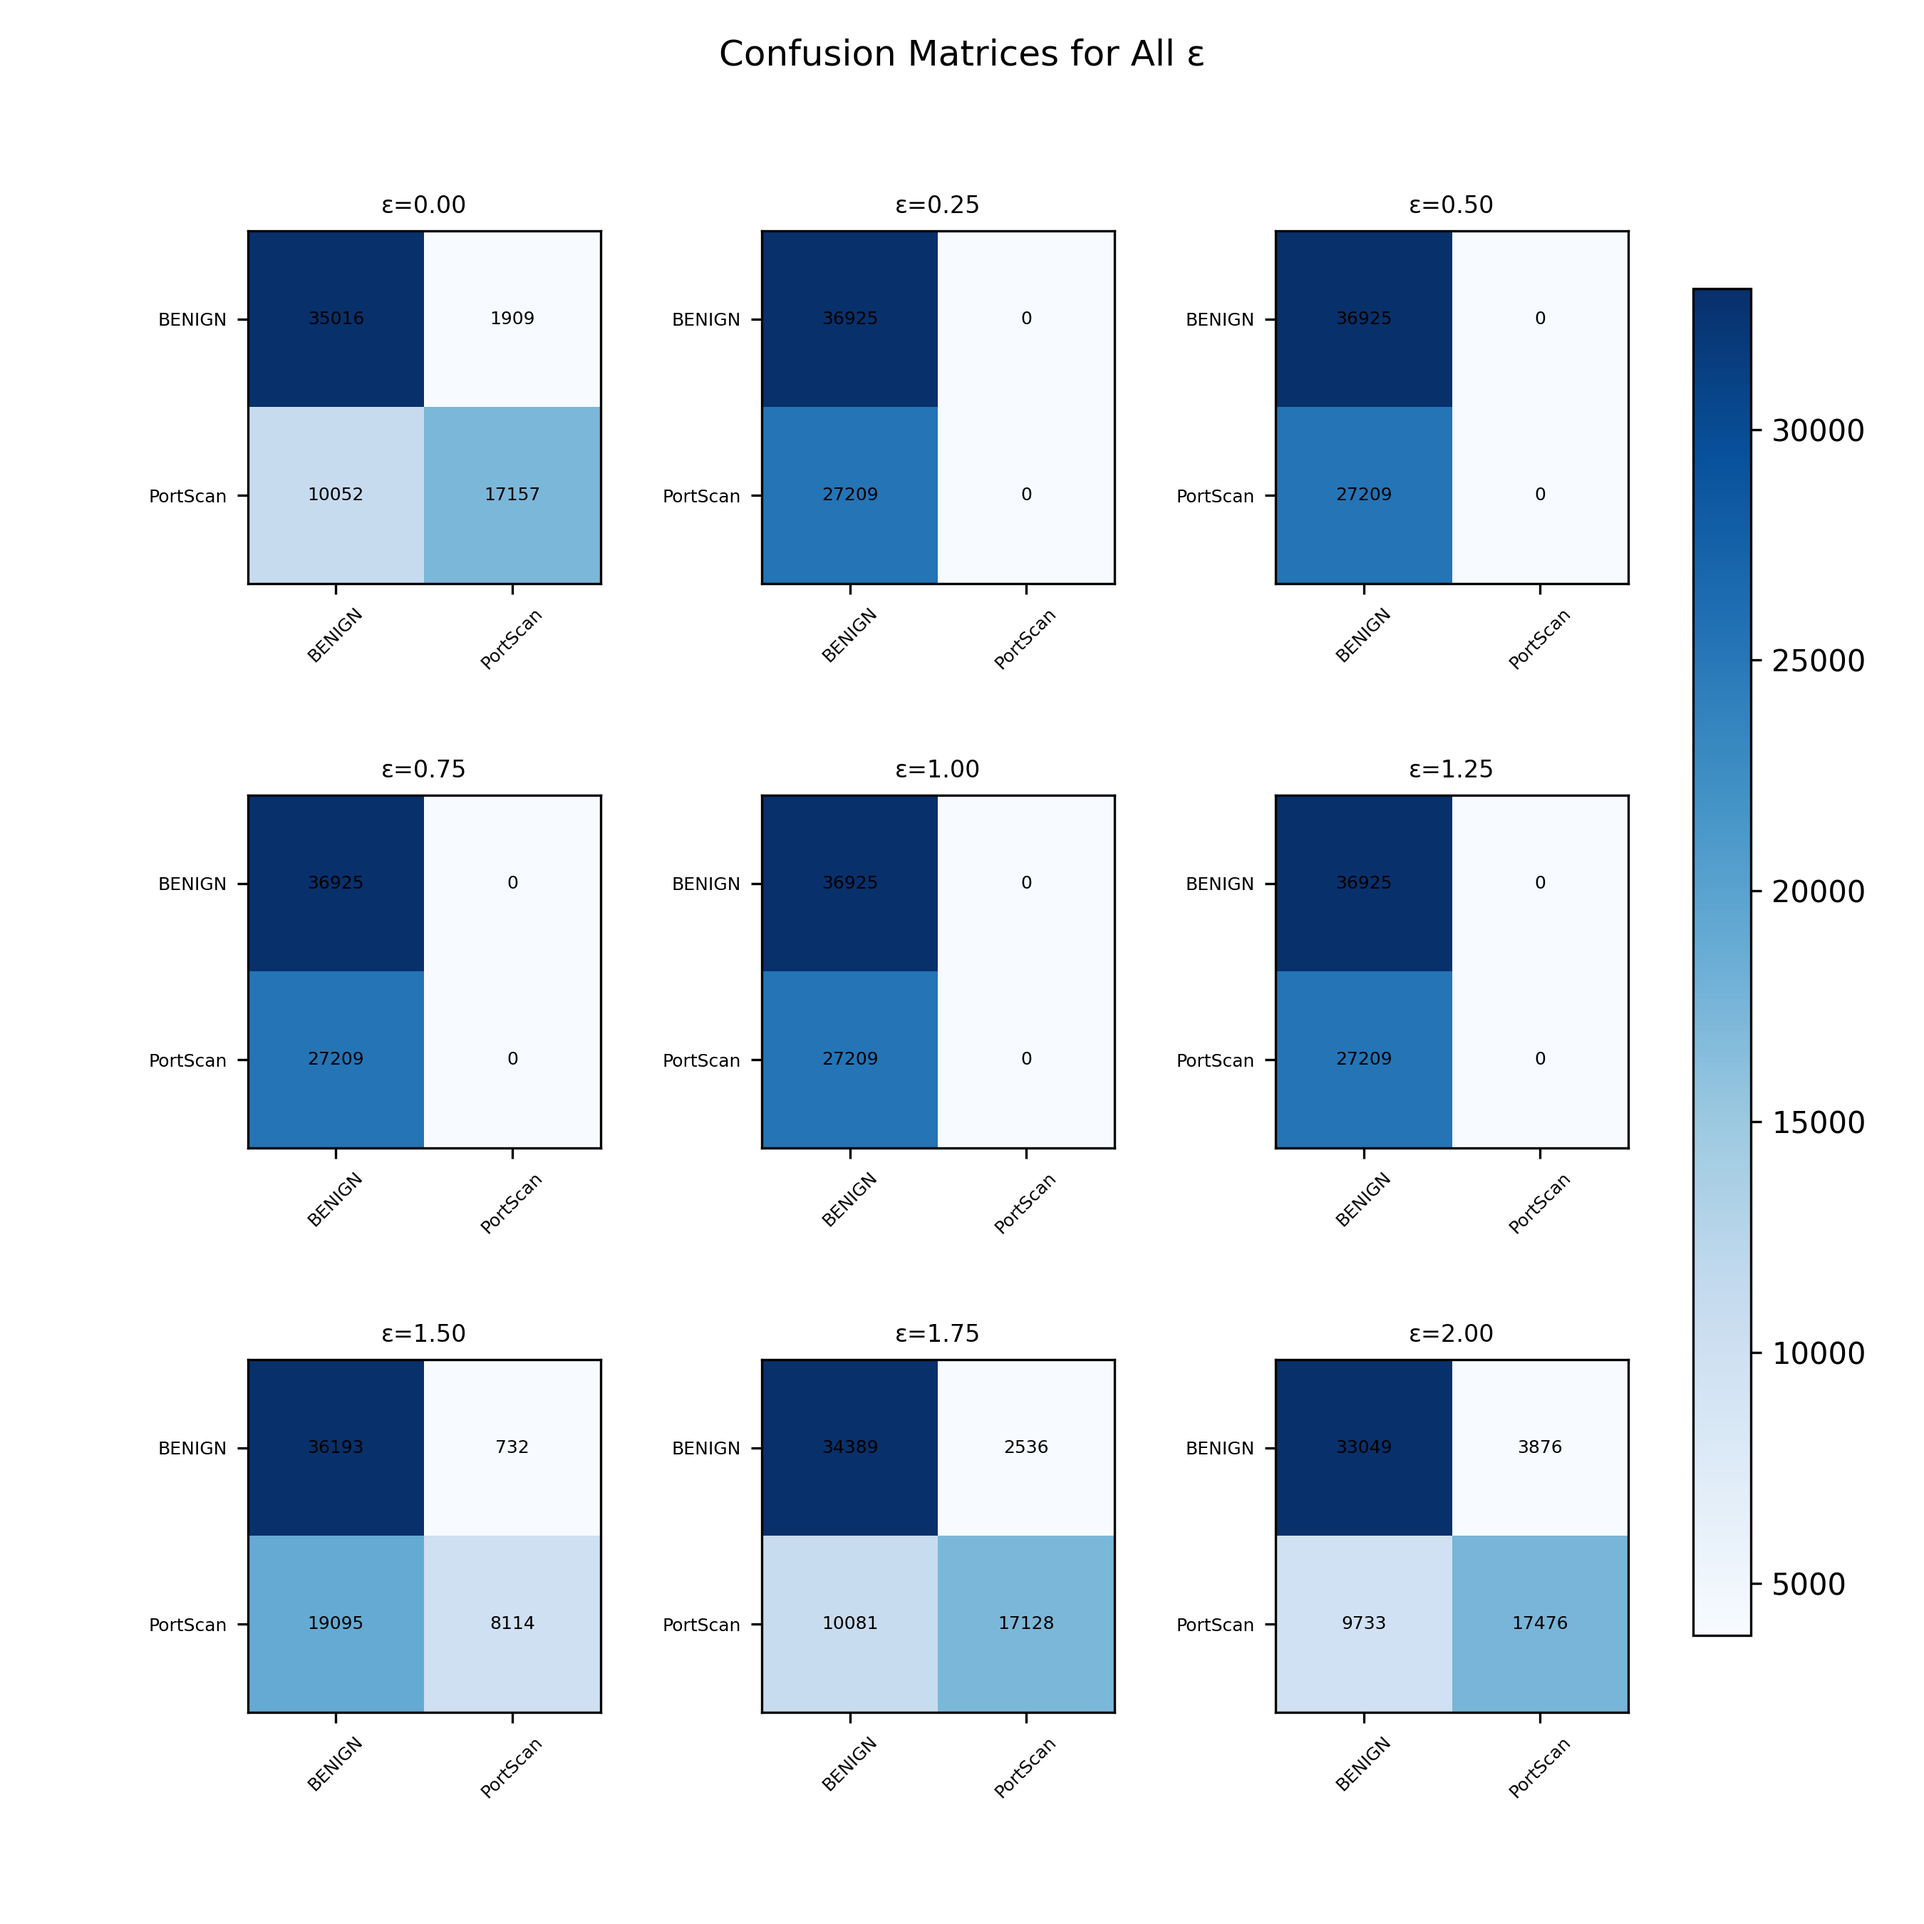
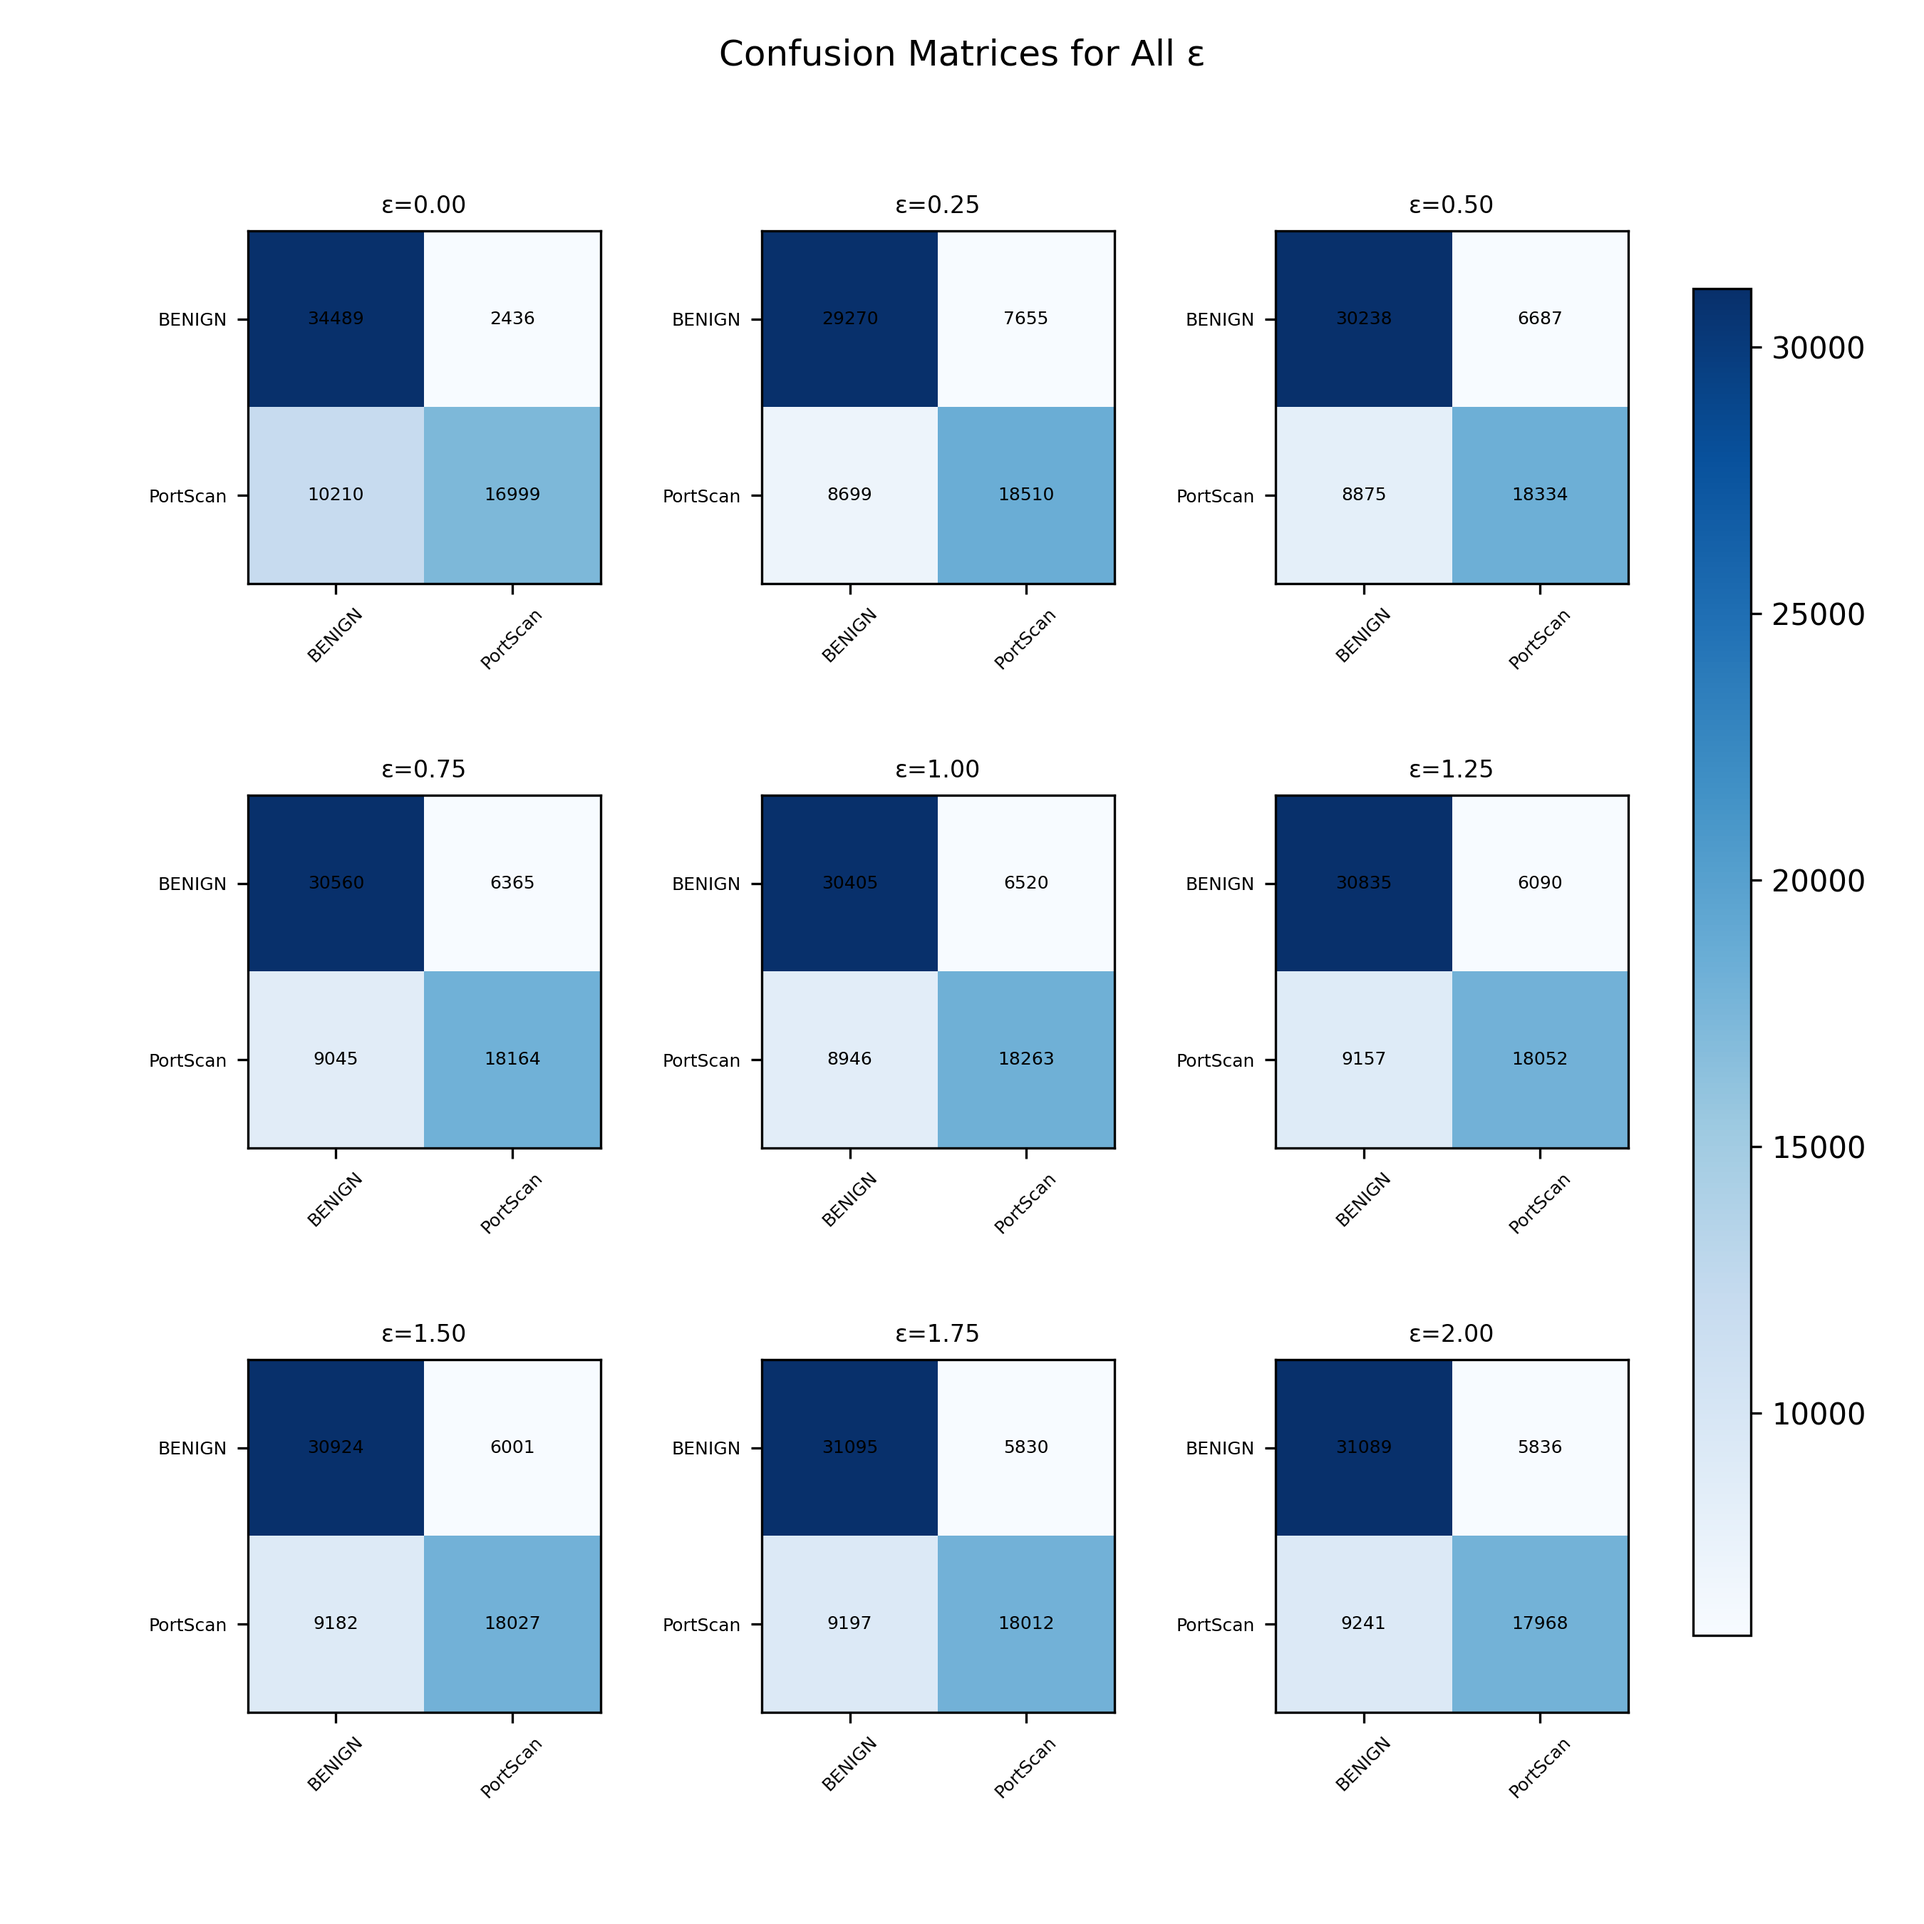
“4/30改进版”

diff --git a/src/optimized_pipeline.py b/src/optimized_pipeline.py
@@ -1,3 +1,4 @@
+# optimized_pipeline.py
 import argparse
 import logging
 from pathlib import Path
@@ -5,7 +6,10 @@ import yaml
 import pandas as pd
 import numpy as np
 import matplotlib.pyplot as plt
-from sklearn.metrics import accuracy_score, precision_score, recall_score, f1_score, confusion_matrix
+from sklearn.metrics import (
+    accuracy_score, precision_score, recall_score, f1_score,
+    confusion_matrix, roc_curve, precision_recall_curve, auc
+)
 from sklearn.model_selection import train_test_split
 from sklearn.utils import resample
 from cls import train_and_evaluate_model
@@ -76,10 +80,8 @@ def evaluate_metrics(y_true, y_pred, labels):
     rec_macro = recall_score(y_true, y_pred, average='macro', zero_division=0)
     f1_macro = f1_score(y_true, y_pred, average='macro', zero_division=0)
     cm = confusion_matrix(y_true, y_pred, labels=labels)
-    per_class_recalls = {
-        f'recall_{labels[i]}': cm[i, i] / cm[i].sum() if cm[i].sum() > 0 else 0
-        for i in range(len(labels))
-    }
+    per_class_recalls = {f'recall_{labels[i]}': cm[i, i] / cm[i].sum() if cm[i].sum() > 0 else 0
+                         for i in range(len(labels))}
     per_class_f1 = {}
     for i, lbl in enumerate(labels):
         tp = cm[i, i]
@@ -98,8 +100,7 @@ def plot_confusion_matrix_grid(cms, labels, title, save_path: Path):
     axes = axes.flatten()
     for ax, (eps, cm) in zip(axes, cms):
         im = ax.imshow(cm, interpolation='nearest', cmap=plt.cm.Blues)
-        tag = f'ε={eps:.2f}'
-        ax.set_title(tag, fontsize=8)
+        ax.set_title(f'ε={eps:.2f}', fontsize=8)
         ax.set_xticks(range(len(labels)))
         ax.set_xticklabels(labels, rotation=45, fontsize=6)
         ax.set_yticks(range(len(labels)))
@@ -117,17 +118,31 @@ def plot_confusion_matrix_grid(cms, labels, title, save_path: Path):
     plt.close()
 
 
-def plot_combined_summary(results_df: pd.DataFrame, metrics: list, save_path: Path, scale: str):
-    plt.figure()
-    for m in metrics:
-        plt.plot(results_df['epsilon'], results_df[m], marker='o', linestyle='-', label=m)
+def plot_combined_curves(roc_data, pr_data, save_path: Path, scale: str):
+    # roc_data: list of (eps, fpr, tpr)
+    # pr_data: list of (eps, recall, precision)
+    fig, (ax1, ax2) = plt.subplots(1, 2, figsize=(12, 6))
+    # ROC
+    for eps, fpr, tpr, roc_auc_val in roc_data:
+        ax1.plot(fpr, tpr, label=f'ε={eps:.2f} (AUC={roc_auc_val:.2f})')
+    ax1.plot([0, 1], [0, 1], '--', color='grey')
+    ax1.set_title('ROC Curves')
+    ax1.set_xlabel('FPR')
+    ax1.set_ylabel('TPR')
     if scale == 'log':
-        plt.xscale('log')
-    plt.grid(True, linestyle='--', alpha=0.5)
-    plt.title('Metrics vs Epsilon')
-    plt.xlabel('Epsilon')
-    plt.ylabel('Value')
-    plt.legend(bbox_to_anchor=(1.05, 1), loc='upper left', fontsize=8)
+        ax1.set_xscale('log')
+    ax1.legend(fontsize=6, bbox_to_anchor=(1, 1))
+    ax1.grid(linestyle='--', alpha=0.5)
+    # PR
+    for eps, recall_vals, precision_vals, pr_auc_val in pr_data:
+        ax2.plot(recall_vals, precision_vals, label=f'ε={eps:.2f} (AUC={pr_auc_val:.2f})')
+    ax2.set_title('PR Curves')
+    ax2.set_xlabel('Recall')
+    ax2.set_ylabel('Precision')
+    if scale == 'log':
+        ax2.set_xscale('log')
+    ax2.legend(fontsize=6, bbox_to_anchor=(1, 1))
+    ax2.grid(linestyle='--', alpha=0.5)
     plt.tight_layout()
     plt.savefig(save_path, dpi=300)
     plt.close()
@@ -137,7 +152,7 @@ def plot_results_table(results_df: pd.DataFrame, save_path: Path):
     fig, ax = plt.subplots(figsize=(results_df.shape[1]*1.2, results_df.shape[0]*0.6))
     ax.axis('off')
     table = ax.table(cellText=np.round(results_df.values, 4), colLabels=results_df.columns, loc='center')
-    table.auto_set_font_size(False);
+    table.auto_set_font_size(False)
     table.set_fontsize(12)
     table.scale(1, 1.5)
     plt.tight_layout()
@@ -154,59 +169,71 @@ def run_experiments(config: dict):
     plots_dir, logs_dir = prepare_output_dirs(base_dir)
     setup_logging(logs_dir / 'pipeline.log')
 
-    X_train, X_test, y_train, y_test = load_and_split(Path(data_cfg['path']),
-                                                       data_cfg.get('test_size', 0.3),
-                                                       data_cfg.get('random_state', 42),
-                                                       data_cfg.get('stratify', True))
+    X_train, X_test, y_train, y_test = load_and_split(
+        Path(data_cfg['path']), data_cfg.get('test_size', 0.3),
+        data_cfg.get('random_state', 42), data_cfg.get('stratify', True)
+    )
 
     epsilons, plot_scale = generate_epsilons(exp_cfg)
     metrics_list = []
     cms = []
+    roc_data = []
+    pr_data = []
     labels = exp_cfg.get('labels', ['BENIGN', 'PortScan'])
     oversample = exp_cfg.get('oversample', False)
 
     for eps in epsilons:
         logging.info(f'Running experiment ε={eps:.2f}')
-        X_tr, y_tr = (X_train, y_train)
+        X_tr, y_tr = X_train, y_train
         if eps > 0:
             X_tr = apply_differential_privacy(X_tr, eps)
         if oversample:
             X_tr, y_tr = oversample_training(X_tr, y_tr, labels)
 
-        y_pred = train_and_evaluate_model(X_tr, y_tr, X_test)
+        y_pred, y_prob = train_and_evaluate_model(X_tr, y_tr, X_test, return_proba=True)
         cms.append((eps, confusion_matrix(y_test, y_pred, labels=labels)))
 
-        acc, prec, rec_macro, f1_macro, rec_per_class, f1_per_class = evaluate_metrics(y_test, y_pred, labels)
-        record = {'epsilon': eps, 'accuracy': acc, 'precision': prec, 'recall_macro': rec_macro, 'f1_macro': f1_macro}
-        record.update(rec_per_class)
-        record.update(f1_per_class)
+        acc, prec, rec_macro, f1_macro, rec_pc, f1_pc = evaluate_metrics(y_test, y_pred, labels)
+        fpr, tpr, _ = roc_curve(y_test, y_prob[:, 1], pos_label='PortScan')
+        roc_auc_val = auc(fpr, tpr)
+        precision_vals, recall_vals, _ = precision_recall_curve(y_test, y_prob[:, 1], pos_label='PortScan')
+        pr_auc_val = auc(recall_vals, precision_vals)
+
+        # store for combined curves
+        roc_data.append((eps, fpr, tpr, roc_auc_val))
+        pr_data.append((eps, recall_vals, precision_vals, pr_auc_val))
+
+        record = {
+            'epsilon': eps,
+            'accuracy': acc,
+            'precision': prec,
+            'recall_macro': rec_macro,
+            'f1_macro': f1_macro,
+            'roc_auc': roc_auc_val,
+            'pr_auc': pr_auc_val
+        }
+        record.update(rec_pc)
+        record.update(f1_pc)
         metrics_list.append(record)
 
-    # Confusion matrix grid
+    # Plot confusion matrix grid
     grid_path = plots_dir / 'confusion_matrix_grid.png'
     plot_confusion_matrix_grid(cms, labels, 'Confusion Matrices for All ε', grid_path)
 
-    # Save metrics
+    # Save metrics table
     results_df = pd.DataFrame(metrics_list)
     csv_path = base_dir / output_cfg.get('results_file', 'results_summary.csv')
     results_df.to_csv(csv_path, index=False)
-
-    # Table and combined plot including F1
     table_path = plots_dir / 'results_table.png'
     plot_results_table(results_df, table_path)
-    combined_path = plots_dir / 'combined_metrics.png'
-    plot_combined_summary(results_df,
-                          ['accuracy', 'precision', 'recall_macro', 'f1_macro'],
-                          combined_path, scale=plot_scale)
 
+    # Combined curves
+    combined_curves_path = plots_dir / 'combined_roc_pr.png'
+    plot_combined_curves(roc_data, pr_data, combined_curves_path, plot_scale)
 
-def main():
+if __name__ == '__main__':
     parser = argparse.ArgumentParser(description='DP-enabled anomaly detection pipeline')
     parser.add_argument('--config', type=str, default='config.yaml', help='Path to config file')
     args = parser.parse_args()
     config = load_config(Path(args.config))
     run_experiments(config)
-
-
-if __name__ == '__main__':
-    main()

diff --git a/src/cls.py b/src/cls.py
@@ -1,71 +1,17 @@
-from sklearn.linear_model import LogisticRegression
-from sklearn.pipeline import Pipeline
-from sklearn.preprocessing import StandardScaler
-from sklearn.impute import SimpleImputer
-from sklearn.metrics import classification_report, confusion_matrix
-import matplotlib.pyplot as plt
-import seaborn as sns
-import pandas as pd
+# cls.py
+from sklearn.ensemble import RandomForestClassifier
 
-def train_and_evaluate_model(X_train, y_train, X_test):
-    # 强制标签为字符串，确保 "BENIGN" / "PortScan" 一致
-    y_train = y_train.astype(str)
+def train_and_evaluate_model(X_train, y_train, X_test, return_proba=False):
+    """
+    训练模型并返回预测结果。
+    参数:
+      - return_proba: 如果为 True，则返回 (y_pred, y_prob)，否则仅返回 y_pred。
+    """
+    model = RandomForestClassifier(n_estimators=100, random_state=42)
+    model.fit(X_train, y_train)
 
-    # 创建训练管道
-    pipeline = Pipeline([
-        ('imputer', SimpleImputer(strategy='mean')),
-        ('scaler', StandardScaler()),
-        ('classifier', LogisticRegression(max_iter=1000, random_state=42))
-    ])
-
-    # 模型训练
-    pipeline.fit(X_train, y_train)
-    y_pred = pipeline.predict(X_test)
-    y_pred_labels = pd.Series(y_pred).astype(str).tolist()
-
-    # 训练集分类报告
-    print("\n[Train Set Classification Report]")
-    print(classification_report(
-        y_train,
-        pipeline.predict(X_train).astype(str),
-        labels=["BENIGN", "PortScan"],
-        target_names=["BENIGN", "PortScan"]
-    ))
-
-    # 训练集混淆矩阵可视化
-    cm = confusion_matrix(
-        y_train,
-        pipeline.predict(X_train).astype(str),
-        labels=["BENIGN", "PortScan"]
-    )
-    plt.figure(figsize=(6, 5))
-    sns.heatmap(cm, annot=True, fmt="d", cmap="Blues",
-                xticklabels=["BENIGN", "PortScan"],
-                yticklabels=["BENIGN", "PortScan"])
-    plt.xlabel("Predicted Label")
-    plt.ylabel("True Label")
-    plt.title("Confusion Matrix (Train Set)")
-    plt.tight_layout()
-    plt.savefig("../result_plots/confusion_matrix_train.png")
-    plt.close()
-
-    # 特征重要性图（Top 15）
-    try:
-        model = pipeline.named_steps['classifier']
-        importance = abs(model.coef_[0])
-        feature_names = X_train.columns
-        top_idx = importance.argsort()[::-1][:15]
-        top_feats = [feature_names[i] for i in top_idx]
-        top_vals = [importance[i] for i in top_idx]
-
-        plt.figure(figsize=(10, 6))
-        sns.barplot(x=top_vals, y=top_feats)
-        plt.xlabel("Importance")
-        plt.title("Top 15 Important Features")
-        plt.tight_layout()
-        plt.savefig("../result_plots/feature_importance.png")
-        plt.close()
-    except Exception as e:
-        print("无法生成特征重要性图：", str(e))
-
-    return y_pred_labels
+    y_pred = model.predict(X_test)
+    if return_proba:
+        y_prob = model.predict_proba(X_test)
+        return y_pred, y_prob
+    return y_pred
